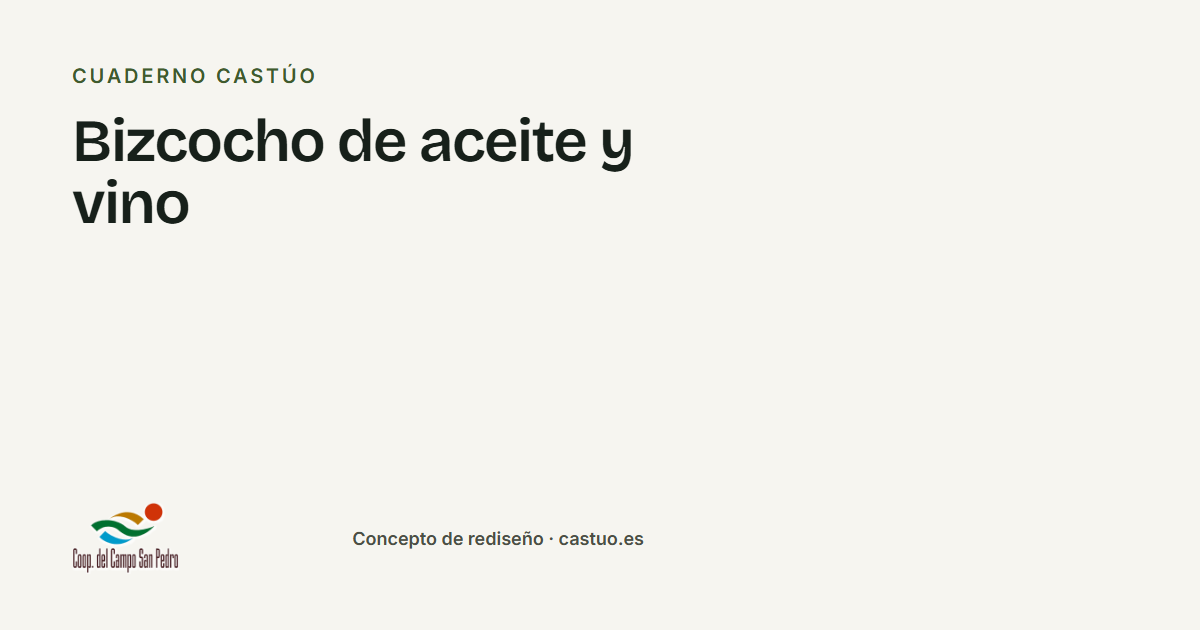
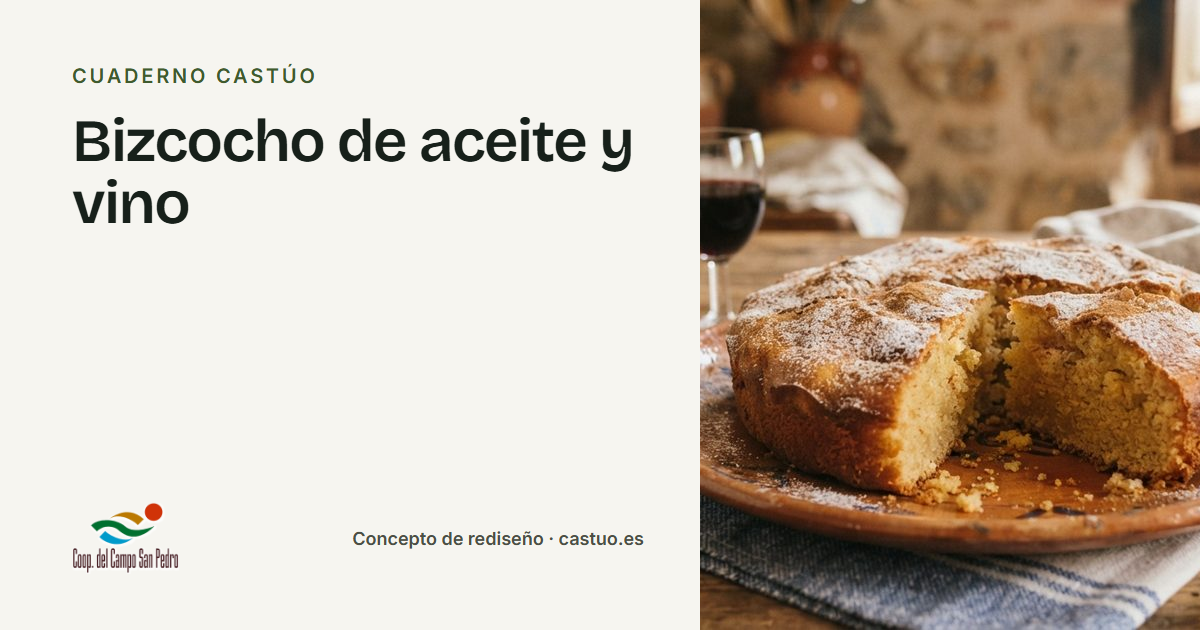
Blog: foto del bizcocho de aceite y vino
Imagen generada con IA (Gemini) aportada por la autora, identificada
como tal en el pie de foto. Sustituye el hueco «Foto pendiente» en la
portada, la página de recetas y el artículo; OG regenerada y
PENDIENTE.md actualizado (sustituir por una foto real del plato).

diff --git a/PENDIENTE.md b/PENDIENTE.md
@@ -63,7 +63,7 @@ Se han descartado (ver `catalogo.json`, `motivo_descarte`) porque no muestran a 
 - [ ] **Newsletter «La carta castúa»**: el formulario es ficticio (valida y confirma, no envía). En producción: proveedor de correo, doble opt-in y consentimiento RGPD.
 - [ ] **Contenido de relleno (21/11/2026)**: 14 artículos más para completar el blog, entre ellos los 8 del calendario (poda, la viña en primavera, primavera en el olivar, floración, cuajado, envero, vendimia y regalos), el bizcocho, el vino de mesa, los premios Extrema Selección 2025 y el 50 aniversario. Son textos divulgativos generales que se apoyan solo en datos ya publicados en castuo.es: los galardones de 2025, 1965, 137 → +1.100 socios y la celebración de 2015 que se ve en su galería. **Que los revise un técnico de la cooperativa antes de publicar.**
 - [ ] **Noticias inventadas**: «Arranca la campaña de aceituna» y «Estuches de Navidad para empresas» describen hechos que no han ocurrido. Llevan `example: true`, que muestra el aviso «Contenido de ejemplo» en el artículo y «Ejemplo» en la tarjeta. Sustituirlas por noticias reales o borrarlas.
-- [ ] **Foto del bizcocho de aceite y vino**: no hay ninguna; se muestra el hueco «Foto pendiente».
+- [ ] **Foto del bizcocho de aceite y vino**: se usa una imagen generada con IA (Gemini), aportada el 21/11/2026 y señalada como tal en el pie de foto (`src/assets/fotos/externas/ia-bizcocho-de-aceite-y-vino.jpg`). Sustituirla por una foto real del plato.
 
 ## 6. Para producción (fuera del alcance del concepto)
 
